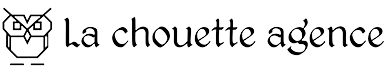
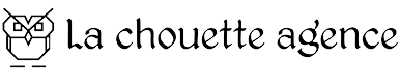
repair bonne pratique

diff --git a/index.html b/index.html
@@ -11,11 +11,11 @@
     <meta name="viewport" content="width=device-width, initial-scale=1.0, viewport-fit=cover">
 
     <link rel="shortcut icon" type="image/png" href="favicon.jpg">
-    <link rel="stylesheet" type="text/css" href="./css/bootstrap.min.css">
 	<link rel="stylesheet" type="text/css" href="./css/bootstrap.css">
 	<link rel="stylesheet" type="text/css" href="style.css">
+    <!-- <link rel="stylesheet" type="text/css" href="./css/bootstrap.min.css">
 	<link rel="stylesheet" type="text/css" href="./css/font-awesome.css">
-	<link rel="stylesheet" type="text/css" href="./css/et-line.css">
+	<link rel="stylesheet" type="text/css" href="./css/et-line.css"> -->
 
 	<!-- <link rel="stylesheet" href="https://cdn.jsdelivr.net/npm/bootstrap@4.6.0/dist/css/bootstrap.min.css" integrity="sha384-B0vP5xmATw1+K9KRQjQERJvTumQW0nPEzvF6L/Z6nronJ3oUOFUFpCjEUQouq2+l" crossorigin="anonymous"> -->
 	<!-- <link href="//netdna.bootstrapcdn.com/twitter-bootstrap/2.3.2/css/bootstrap-combined.no-icons.min.css" rel="stylesheet">

diff --git a/page2.html b/page2.html
@@ -7,11 +7,11 @@
     <link rel="shortcut icon" type="image/png" href="favicon.jpg">
     
 	<link rel="shortcut icon" type="image/png" href="favicon.jpg">
-    <link rel="stylesheet" type="text/css" href="./css/bootstrap.min.css">
 	<link rel="stylesheet" type="text/css" href="./css/bootstrap.css">
 	<link rel="stylesheet" type="text/css" href="style.css">
+    <!-- <link rel="stylesheet" type="text/css" href="./css/bootstrap.min.css">
 	<link rel="stylesheet" type="text/css" href="./css/font-awesome.css">
-	<link rel="stylesheet" type="text/css" href="./css/et-line.css">
+	<link rel="stylesheet" type="text/css" href="./css/et-line.css"> -->
 
     <title>Agence web Lyon - Contact la chouette agence</title>
         

diff --git a/style.css b/style.css
@@ -293,23 +293,25 @@ a:hover {
 }
 
 .navbar-brand {
-  height: auto;
+  /* height: auto; */
   padding: 3px 15px;
   /* font-size: 25px; */
   font-weight: normal;
   font-weight: 600;
-  line-height: 44px;
+  /* line-height: 44px; */
 }
 
 .navbar-brand img {
+  height: 40px;
+  width: 200px;
   max-height: 200px;
   margin: 0 5px 0 0;
   display: inline;
 }
 
-.navbar-brand img[src$="svg"] {
+/* .navbar-brand img[src$="svg"] {
   min-width: 100px;
-}
+} */
 
 .nav-center .navbar-brand img {
   margin: 0;
